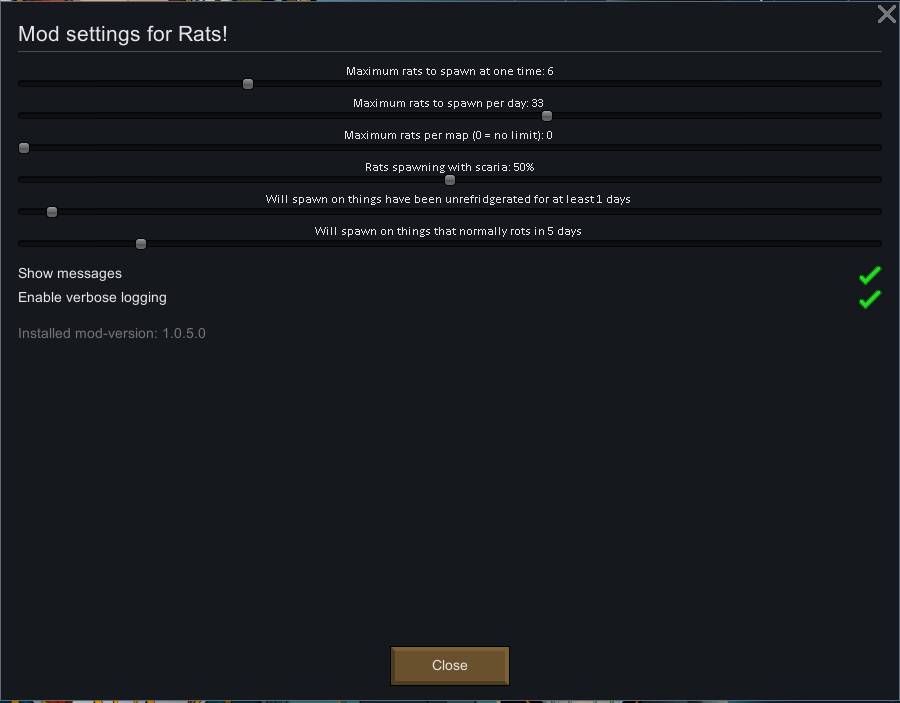
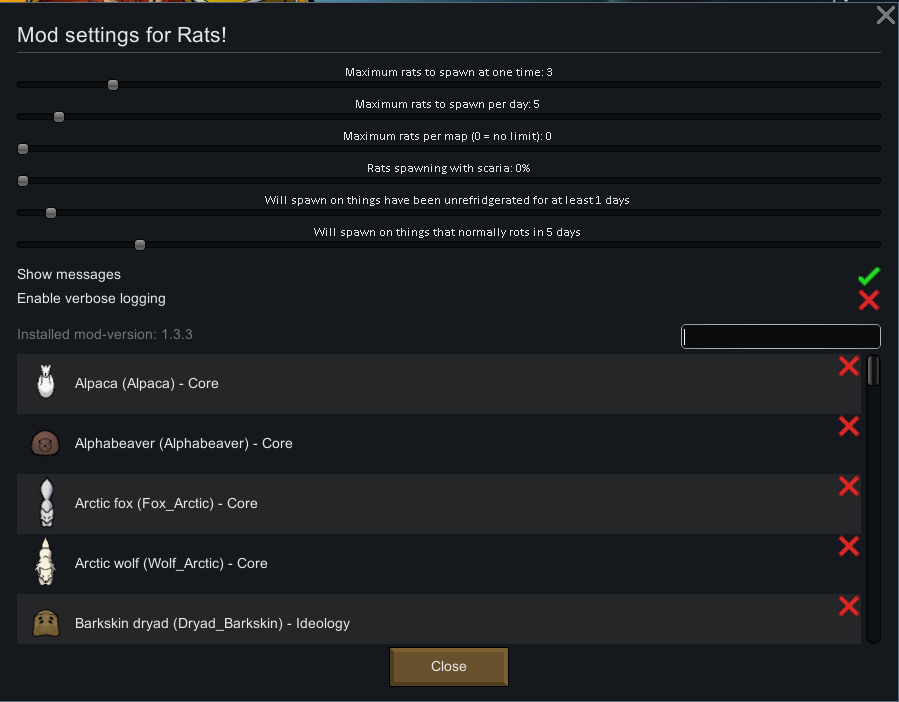
Some extra checks of existing lists

diff --git a/Source/Rats/Rats.cs b/Source/Rats/Rats.cs
@@ -17,6 +17,12 @@ public class Rats
             .Where(def => def.race is { Animal: true })
             .OrderBy(def => def.label).ToList();
         MeatRotten = DefDatabase<ThingDef>.GetNamedSilentFail("MeatRotten");
+        ValidRatRaces = new List<PawnKindDef>();
+        if (RatsMod.instance.Settings.ManualRats == null)
+        {
+            RatsMod.instance.Settings.ManualRats = new List<string>();
+        }
+
         UpdateAvailableRats();
     }
 

diff --git a/README.md b/README.md
@@ -8,6 +8,7 @@ Just like in real life!
 
 Uses rats from https://steamcommunity.com/sharedfiles/filedetails/?id=2113851330]FancyRats and https://steamcommunity.com/sharedfiles/filedetails/?id=2115080957]SnowRats if loaded.
 More can be added via patches.
+There is also mod-options for selecting other animals.
 Will also spawn for meat from https://steamcommunity.com/sharedfiles/filedetails/?id=2466790513]Rotten Meat
 
 Works well with https://steamcommunity.com/sharedfiles/filedetails/?id=2503519676]Some Like It Rotten for making a corpse-based rat-farm
